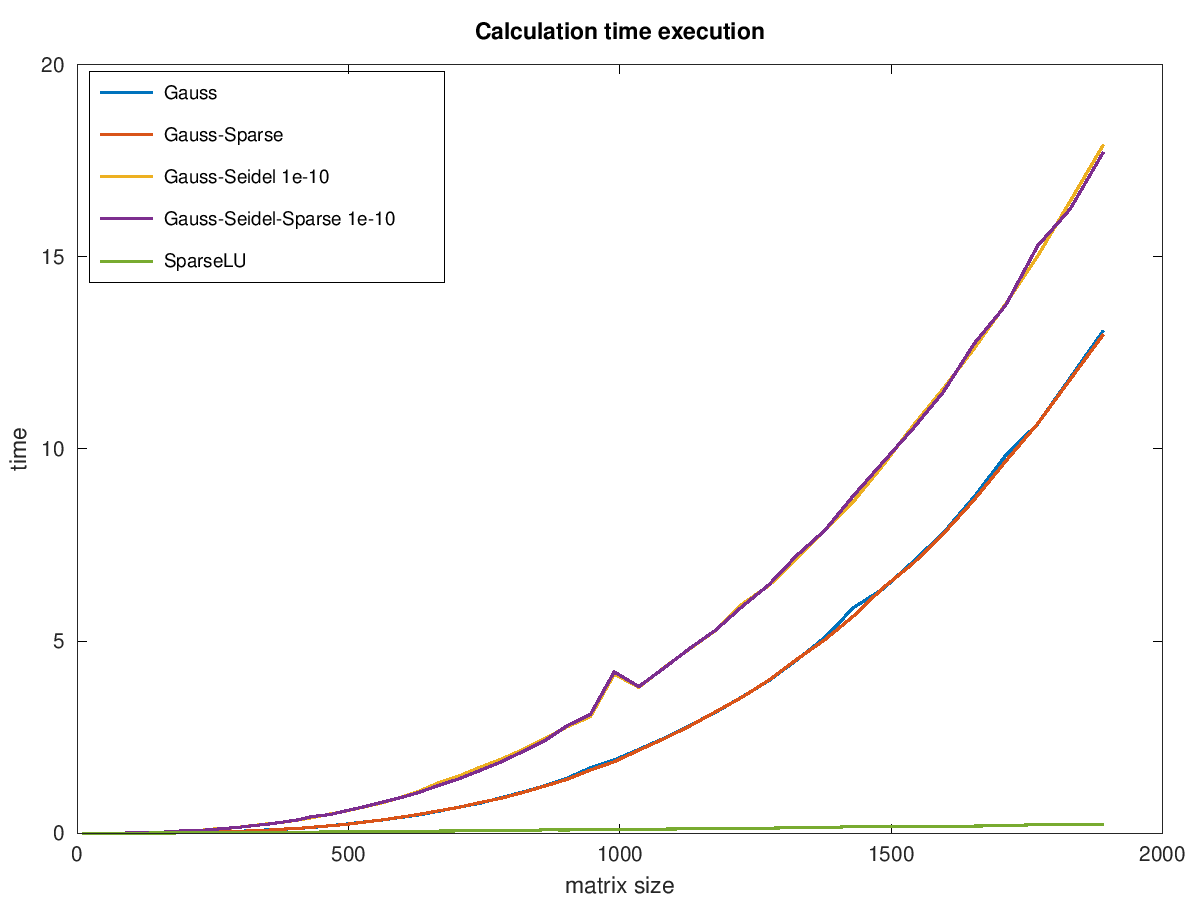
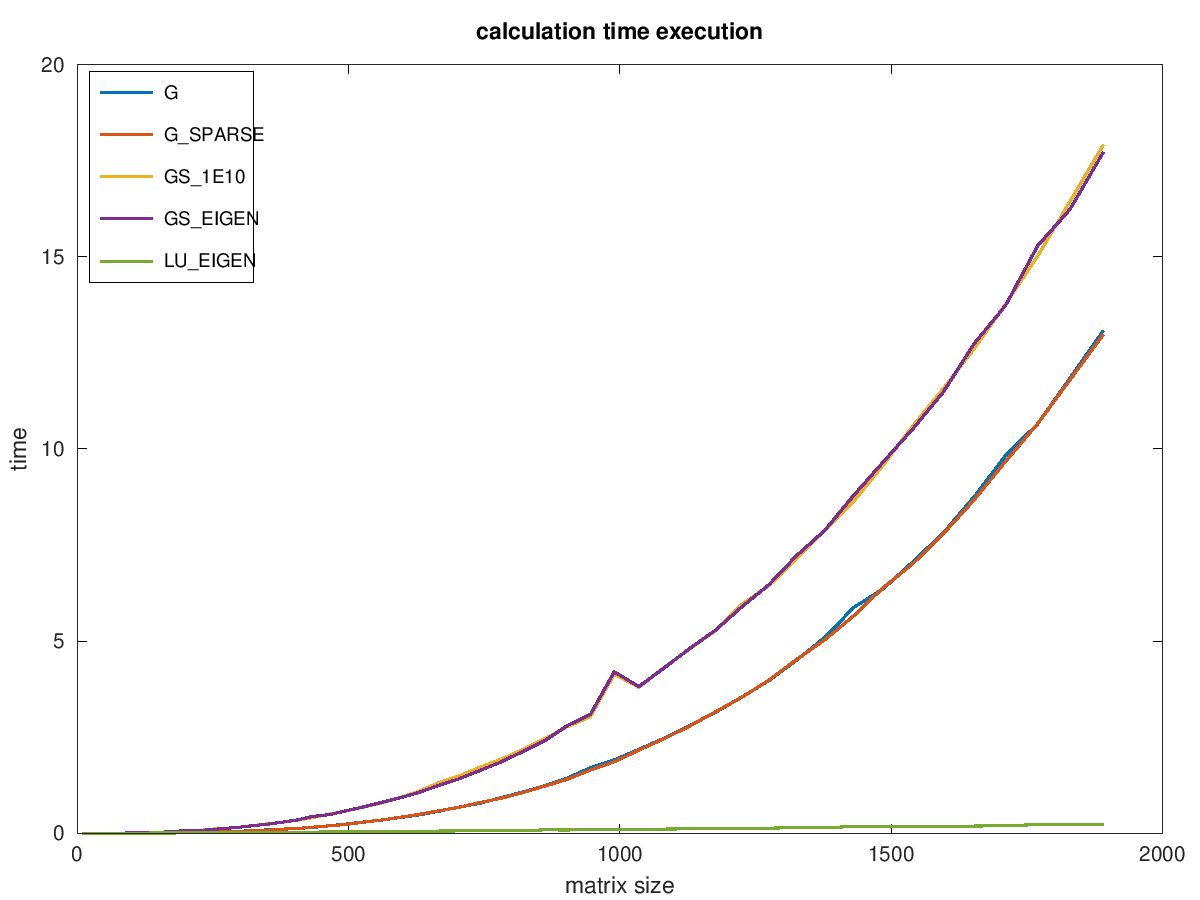
new plots

diff --git a/04-approximations/src/scripts/00_plots_with_octave.m b/04-approximations/src/scripts/00_plots_with_octave.m
@@ -22,8 +22,8 @@ all_time = [(gauss_time), (gauss_sparse_time), (seidel_1e10_time), (seidel_eigen
 plot(matrix_size, all_time, "linewidth", 4);
 ylabel ("time");
 xlabel ("matrix size");
-title ("Calculation time execution");
-legend ("Gauss", "Gauss-Sparse", "Gauss-Seidel 1e-10", "Gauss-Seidel-Sparse 1e-10", "SparseLU", "location", "northwest");
+title ("calculation time execution");
+legend ("G", "G\\_SPARSE    ", "GS\\_1E10", "GS\\_EIGEN", "LU\\_EIGEN", "location", "northwest");
 
 print -dpng ../../report/plots/01_calc_time_execution_all_methods.png;
 
@@ -38,8 +38,8 @@ gen_all_time = [(gen_gauss_time), (gen_gauss_sparse_time), (gen_seidel_1e10_time
 plot(matrix_size, gen_all_time, "linewidth", 4);
 ylabel ("time");
 xlabel ("matrix size");
-title ("Generate time execution");
-legend ("Gauss", "Gauss-Sparse", "Gauss-Seidel 1e-10", "Gauss-Seidel-Sparse 1e-10", "SparseLU", "location", "northwest");
+title ("generate time execution");
+legend ("G", "G\\_SPARSE    ", "GS\\_1E10", "GS\\_EIGEN", "LU\\_EIGEN", "location", "northwest");
 
 print -dpng ../../report/plots/02_gen_time_execution_all_methods.png;
 
@@ -49,13 +49,13 @@ gauss_sparse_abs = gauss_sparse(3:60,4);
 seidel_1e10_abs = gs_1e10(3:60,4);
 seidel_eigen_abs = gs_eigen(3:60,4);
 lu_eigen_abs = lu_eigen(3:60,4);
-all_time = [(gauss_abs), (gauss_sparse_abs), (seidel_1e10_abs), (seidel_eigen_abs), (lu_eigen_abs)];
+all_abs = [(gauss_abs), (gauss_sparse_abs), (seidel_1e10_abs), (seidel_eigen_abs), (lu_eigen_abs)];
 
-plot(matrix_size, all_time, "linewidth", 4);
+plot(matrix_size, all_abs, "linewidth", 4);
 ylabel ("abs error");
 xlabel ("matrix size");
-title ("Calculation abs error");
-legend ("Gauss", "Gauss-Sparse", "Gauss-Seidel 1e-10", "Gauss-Seidel-Sparse 1e-10", "SparseLU", "location", "northwest");
+title ("calculation abs error");
+legend ("G", "G\\_SPARSE    ", "GS\\_1E10", "GS\\_EIGEN", "LU\\_EIGEN", "location", "northwest");
 
 print -dpng ../../report/plots/03_calc_abs_error_all_methods.png;
 
@@ -65,16 +65,47 @@ gauss_sparse_rel = gauss_sparse(3:60,5);
 seidel_1e10_rel = gs_1e10(3:60,5);
 seidel_eigen_rel = gs_eigen(3:60,5);
 lu_eigen_rel = lu_eigen(3:60,5);
-all_time = [(gauss_rel), (gauss_sparse_rel), (seidel_1e10_rel), (seidel_eigen_rel), (lu_eigen_rel)];
+all_rel = [(gauss_rel), (gauss_sparse_rel), (seidel_1e10_rel), (seidel_eigen_rel), (lu_eigen_rel)];
 
-plot(matrix_size, all_time, "linewidth", 4);
+plot(matrix_size, all_rel, "linewidth", 4);
 ylabel ("rel error");
 xlabel ("matrix size");
-title ("Calculation rel error");
-legend ("Gauss", "Gauss-Sparse", "Gauss-Seidel 1e-10", "Gauss-Seidel-Sparse 1e-10", "SparseLU", "location", "northeast");
+title ("calculation rel error");
+legend ("G", "G\\_SPARSE    ", "GS\\_1E10", "GS\\_EIGEN", "LU\\_EIGEN", "location", "northwest");
 
 print -dpng ../../report/plots/04_calc_rel_error_all_methods.png;
 
+###gen all methods abs error
+gen_gauss_abs = gauss(3:60,8);
+gen_gauss_sparse_abs = gauss_sparse(3:60,8);
+gen_seidel_1e10_abs = gs_1e10(3:60,8);
+gen_seidel_eigen_abs = gs_eigen(3:60,8);
+gen_lu_eigen_abs = lu_eigen(3:60,8);
+gen_all_abs = [(gen_gauss_abs), (gen_gauss_sparse_abs), (gen_seidel_1e10_abs), (gen_seidel_eigen_abs), (gen_lu_eigen_abs)];
+
+plot(matrix_size, all_abs, "linewidth", 4);
+ylabel ("abs error");
+xlabel ("matrix size");
+title ("generate abs error");
+legend ("G", "G\\_SPARSE    ", "GS\\_1E10", "GS\\_EIGEN", "LU\\_EIGEN", "location", "northwest");
+
+print -dpng ../../report/plots/05_gen_abs_error_all_methods.png;
+
+###gen all methods rel error
+gen_gauss_rel = gauss(3:60,8);
+gen_gauss_sparse_rel = gauss_sparse(3:60,8);
+gen_seidel_1e10_rel = gs_1e10(3:60,8);
+gen_seidel_eigen_rel = gs_eigen(3:60,8);
+gen_lu_eigen_rel = lu_eigen(3:60,8);
+gen_all_abs = [(gen_gauss_rel), (gen_gauss_sparse_rel), (gen_seidel_1e10_rel), (gen_seidel_eigen_rel), (gen_lu_eigen_rel)];
+
+plot(matrix_size, all_abs, "linewidth", 4);
+ylabel ("rel error");
+xlabel ("matrix size");
+title ("generate rel error");
+legend ("G", "G\\_SPARSE    ", "GS\\_1E10", "GS\\_EIGEN", "LU\\_EIGEN", "location", "northwest");
+
+print -dpng ../../report/plots/06_gen_rel_error_all_methods.png;
 
 
 
